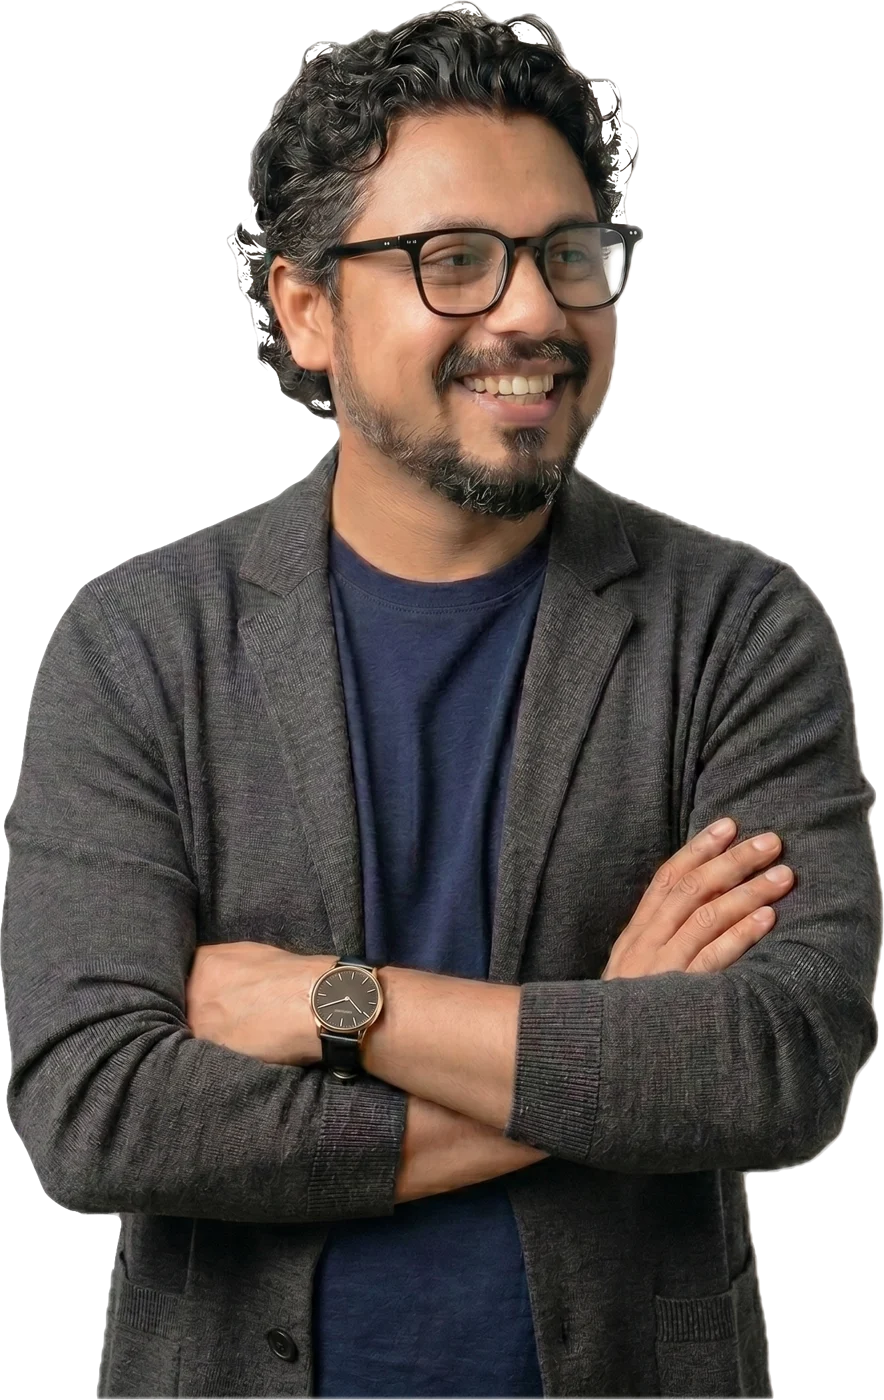
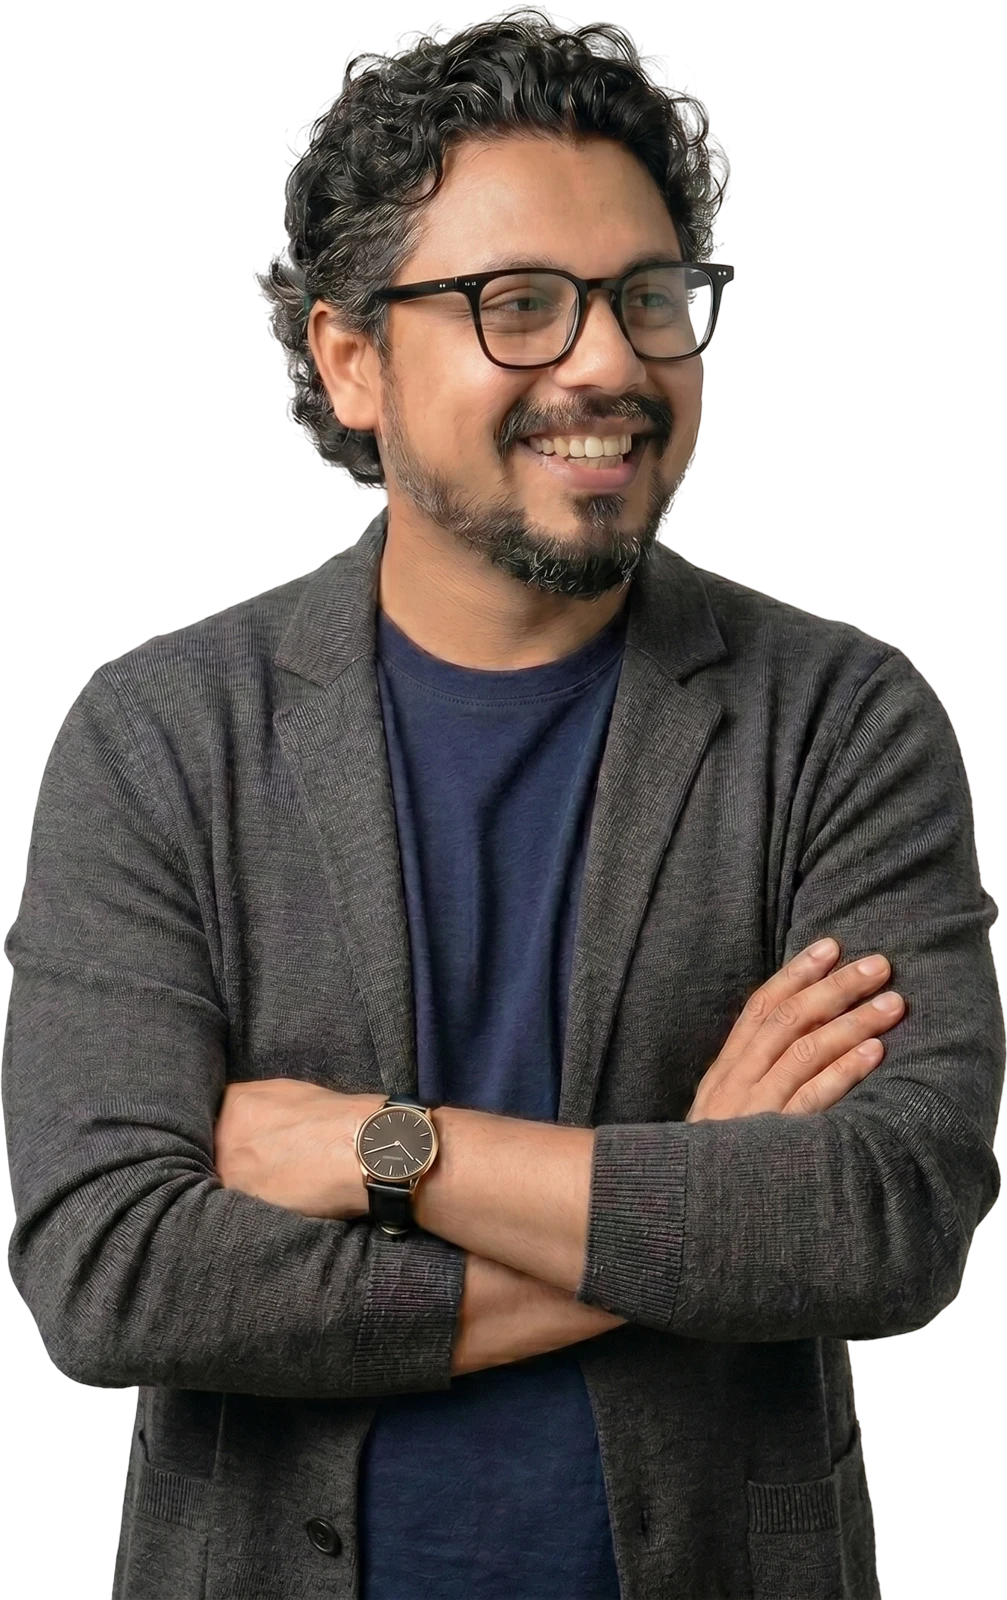
Landing draft: new, larger portrait
Claude-Session: https://claude.ai/code/session_01EaF74aJhREyN22dtWGc2fN

diff --git a/landing/index.html b/landing/index.html
@@ -64,8 +64,8 @@ nav.links a:hover{opacity:1}
 /* scene 1: hero -> about */
 .hero{position:absolute;top:var(--head);bottom:0;left:0;right:0;max-width:var(--max);margin:0 auto;padding:0 var(--gutter);display:grid;grid-template-columns:1.15fr 1fr;gap:clamp(24px,5vw,72px);align-items:end;grid-template-rows:minmax(0,1fr)}
 .stage{position:relative;height:100%;display:flex;align-items:flex-end;justify-content:flex-end}
-.portrait{position:relative;z-index:2;height:92%;width:auto;max-width:none;object-fit:contain;object-position:bottom;transform-origin:100% 100%}
-.ghost-hi{position:absolute;left:-20%;top:0;font:400 clamp(220px,31vw,450px)/.9 var(--serif);color:var(--ghost);letter-spacing:-.02em;user-select:none;pointer-events:none;z-index:0;white-space:nowrap;transform-origin:20% 50%}
+.portrait{position:relative;z-index:2;height:97%;margin-right:-6%;width:auto;max-width:none;object-fit:contain;object-position:bottom;transform-origin:100% 100%}
+.ghost-hi{position:absolute;left:-22%;top:0;font:400 clamp(220px,31vw,450px)/.9 var(--serif);color:var(--ghost);letter-spacing:-.02em;user-select:none;pointer-events:none;z-index:0;white-space:nowrap;transform-origin:20% 50%}
 .hi{display:inline-flex;align-items:baseline}
 .hi .i{position:relative;display:inline-block}
 .hi .dot{position:absolute;left:50%;top:.1em;width:.12em;height:.12em;margin-left:-.06em;border-radius:50%;background:var(--lagoon)}
@@ -88,9 +88,9 @@ nav.links a:hover{opacity:1}
 .vert{position:absolute;right:calc(var(--gutter) * .35);top:50%;transform:translateY(-50%) rotate(180deg);writing-mode:vertical-rl;font-size:11px;font-weight:600;letter-spacing:.24em;text-transform:uppercase;color:var(--muted);z-index:3}
 .vert i{display:inline-block;width:6px;height:6px;border-radius:50%;background:var(--reef);margin:10px 0}
 @media (max-width:860px){
-  .hero{grid-template-columns:1fr;grid-template-rows:44svh auto;align-items:start;gap:4px}
-  .stage{height:44svh}
-  .portrait{height:100%;transform-origin:100% 0}
+  .hero{grid-template-columns:1fr;grid-template-rows:48svh auto;align-items:start;gap:4px}
+  .stage{height:48svh}
+  .portrait{height:100%;transform-origin:100% 0;margin-right:0}
   .ghost-hi{font-size:clamp(150px,42vw,280px);left:-4%;top:-2%}
   .ghost-about{font-size:clamp(78px,23vw,150px);left:-2%;top:2%}.ghost-about .row2{padding-left:.95em}
   .copy{gap:12px;padding-bottom:20px}
